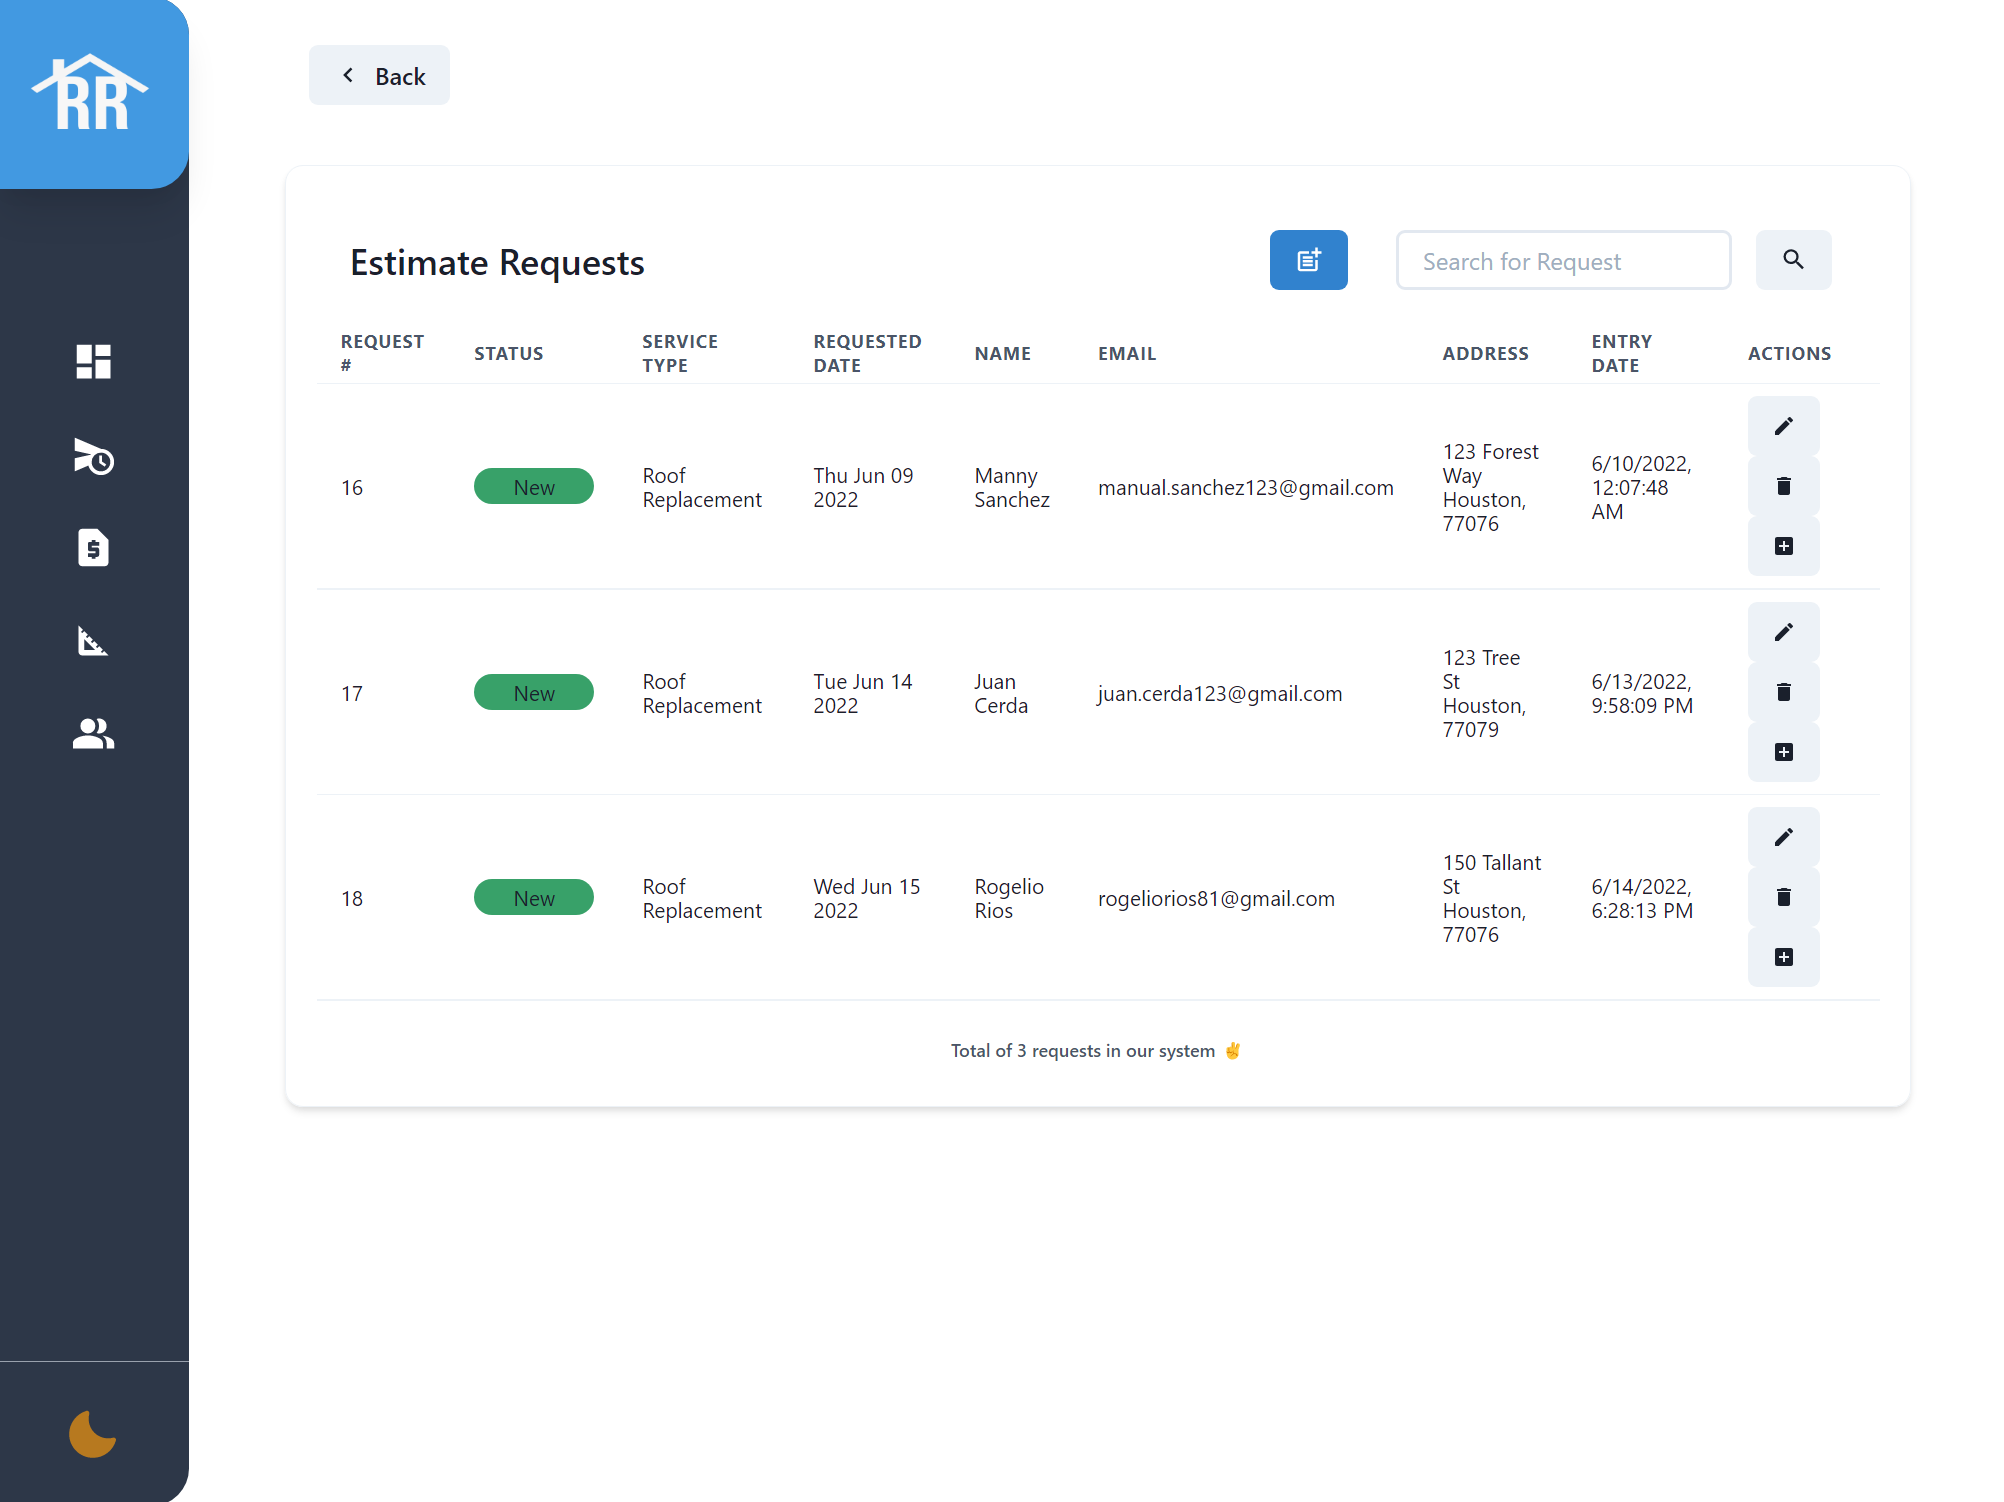
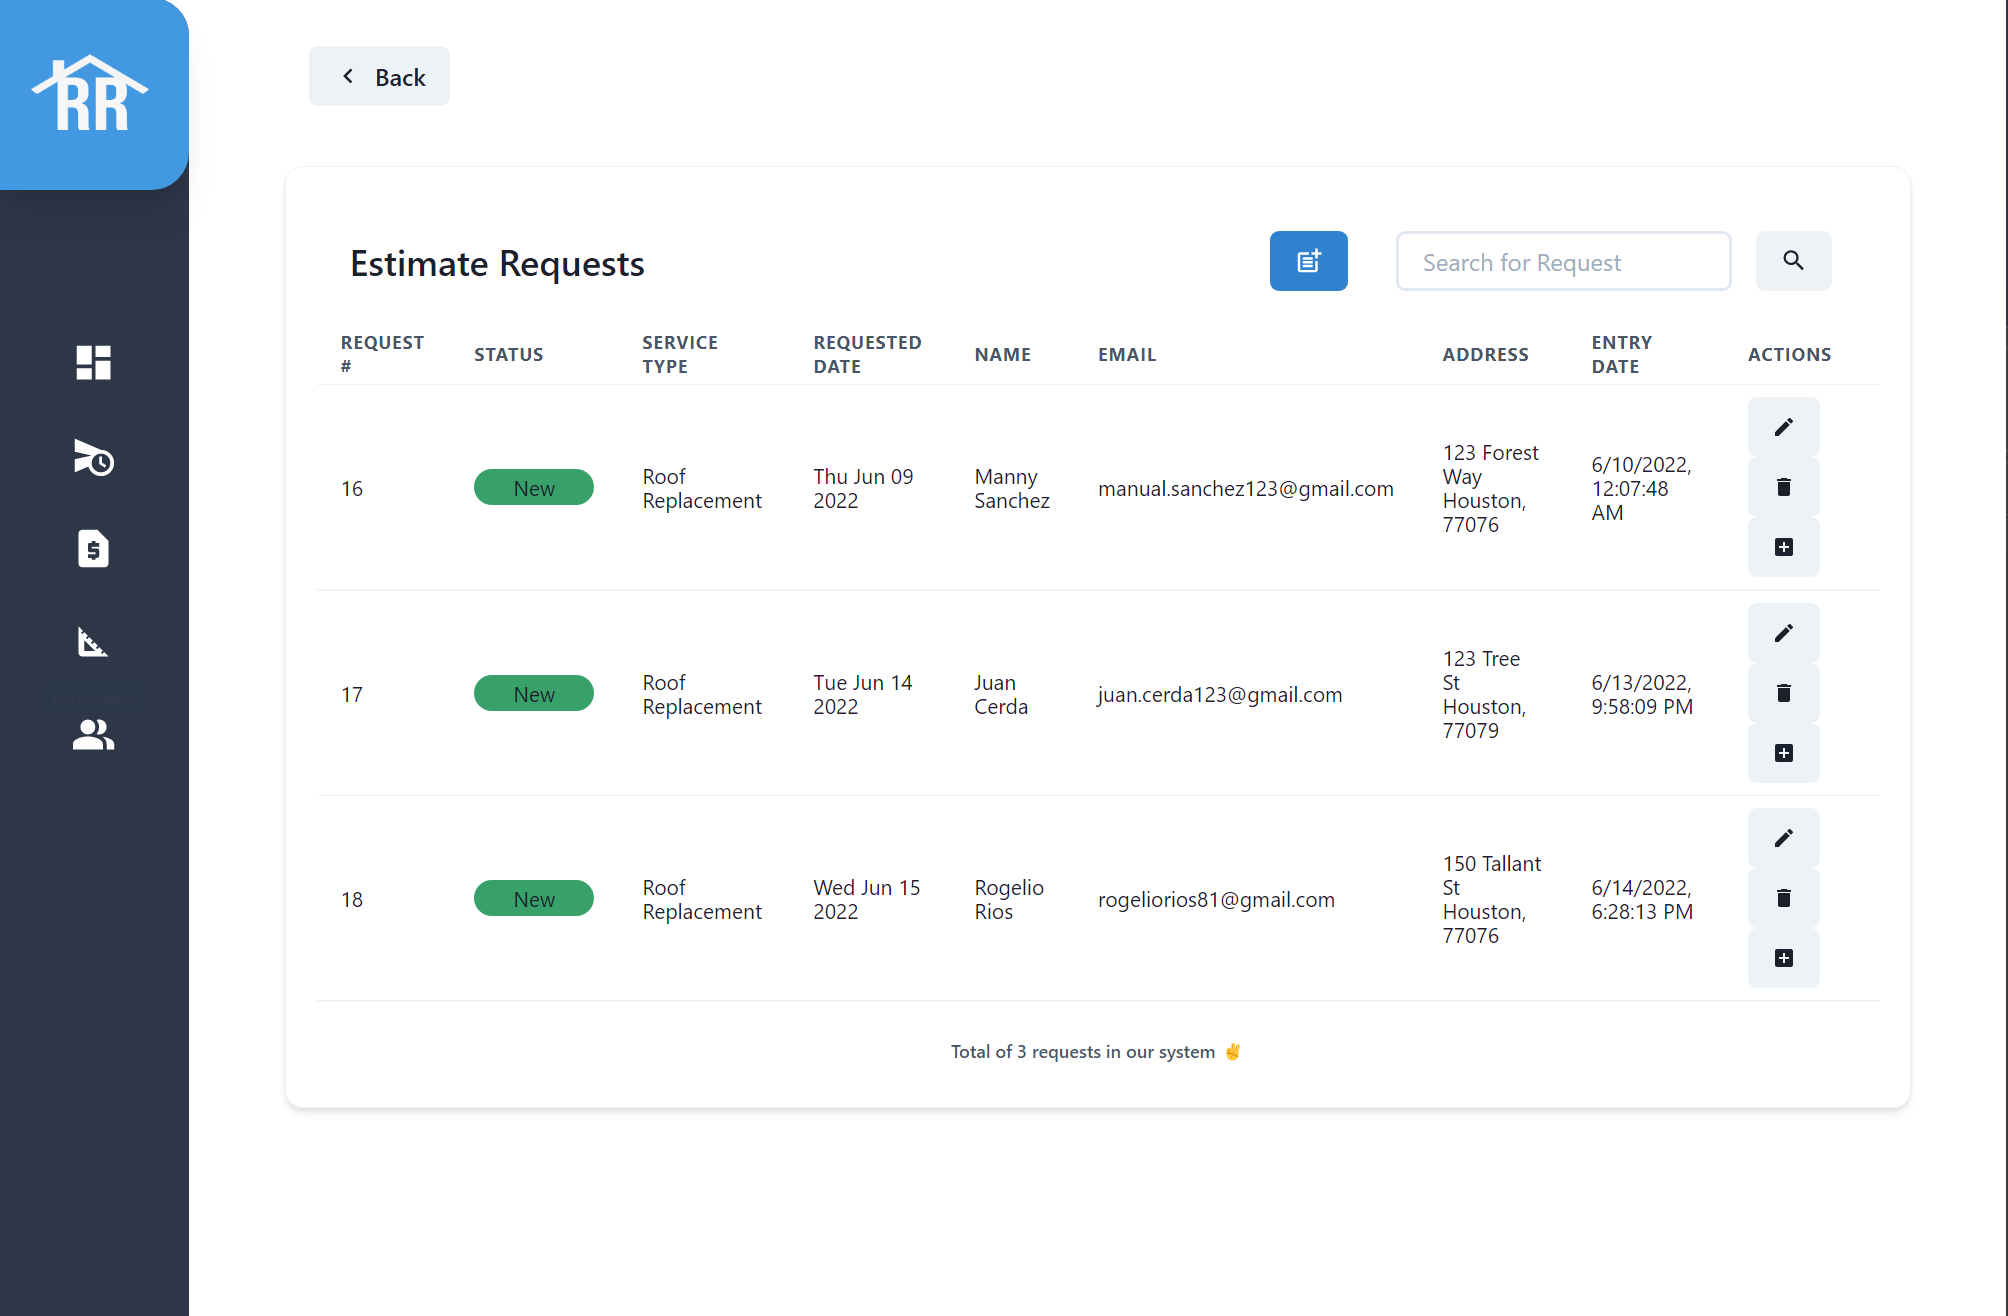
Croped image for recent project

diff --git a/yourData.js b/yourData.js
@@ -24,7 +24,7 @@ export default {
       description: "Currently working on revamping the Roofing Webapp from the ground up with implementation with supabase for the backend, Google Auth, reporting of data, display estimate request from customers from website, capturing materials data. Once completed a release will be created for app on Github. Horizon UI is inspired design on revamp to components. ",
       //Project Image - Add Your Project Image Here
       imageSrc:
-        "https://github.com/rrios4/portfolio-v2/blob/master/assets/est-request-ux.png?raw=true",
+        "https://github.com/rrios4/portfolio-v2/blob/16a1a1ebbb70f4001bdf964a57806aae2154fdb9/assets/est-request-ux.png?raw=true",
       //Project URL - Add Your Project Url Here
       url: "",
       date: "June 2022 - Present",
